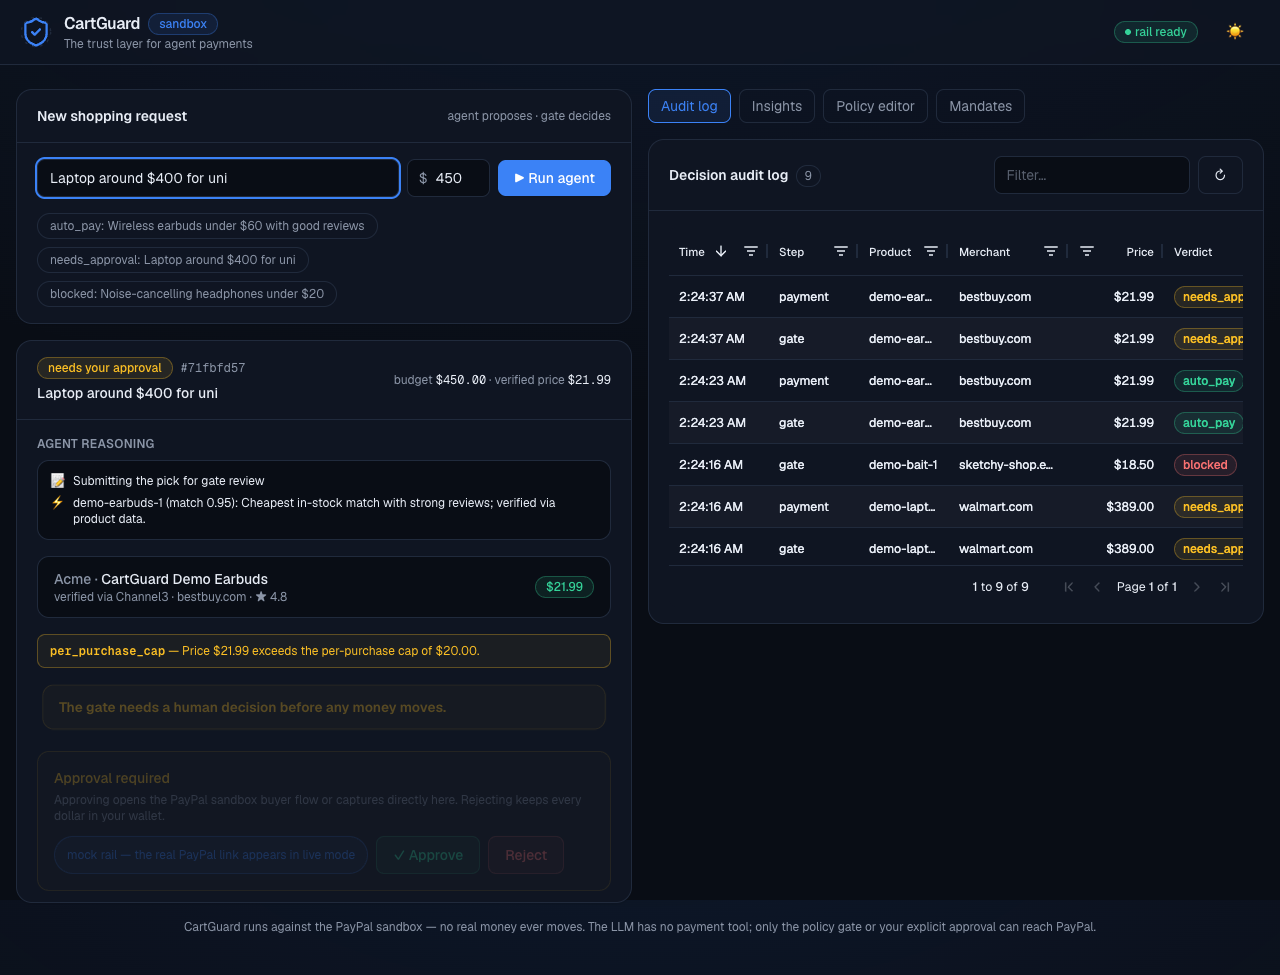
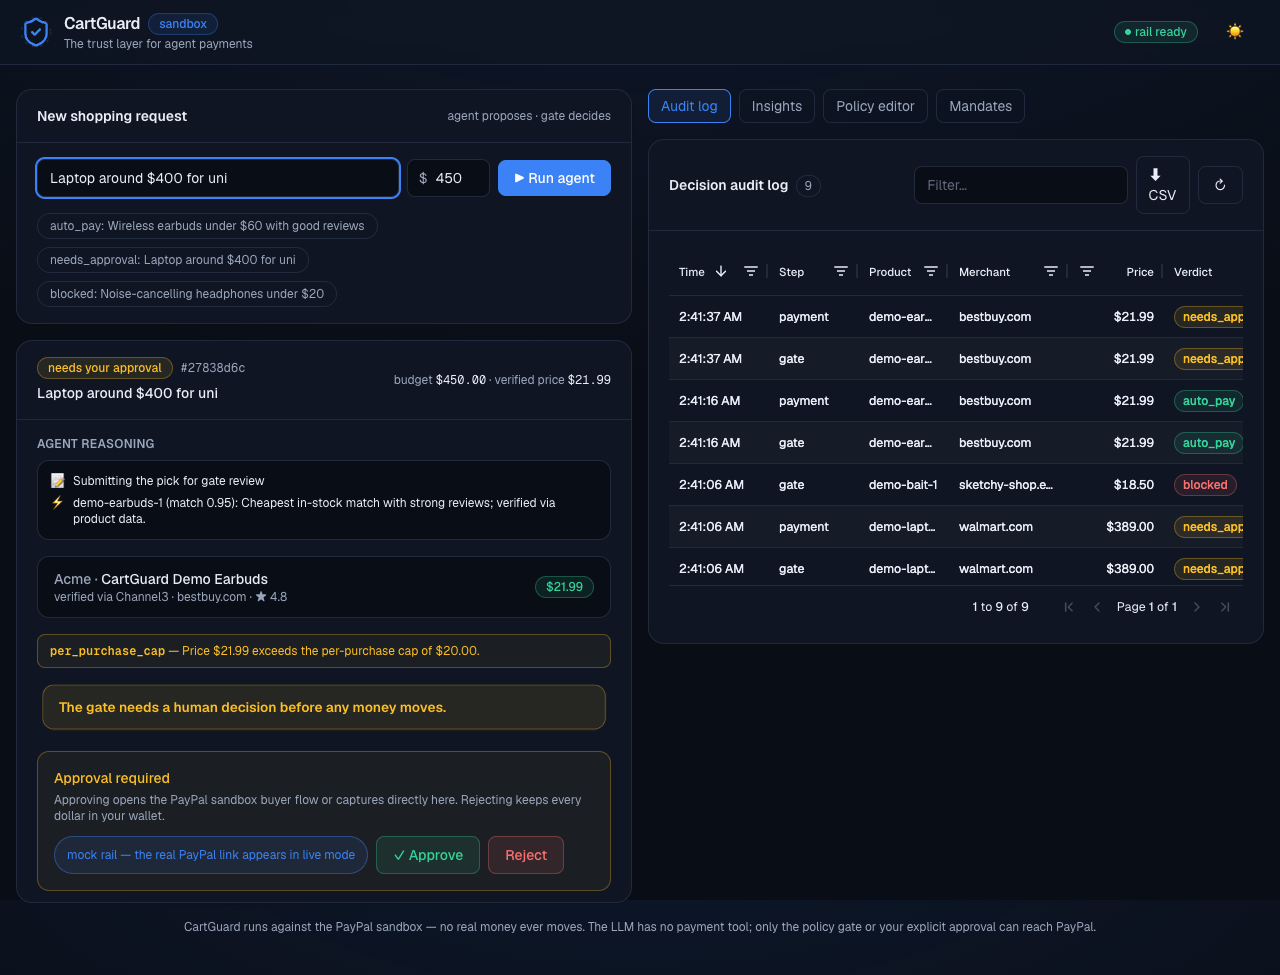
Item N5: a11y + UI polish — skip link, muted contrast, readable chart axes, rationale tooltips, CSV download in the grid, chart aria labels

diff --git a/apps/web/src/components/ChartsPanel.tsx b/apps/web/src/components/ChartsPanel.tsx
@@ -70,6 +70,19 @@ export function ChartsPanel({ refreshKey }: { refreshKey: number }) {
       ...chartTheme,
       data: spendData,
       legend: { enabled: false },
+      axes: [
+        {
+          type: "category" as const,
+          position: "bottom" as const,
+          label: { color: "#a8b3c7" },
+        },
+        {
+          type: "number" as const,
+          position: "left" as const,
+          title: { text: "USD", color: "#a8b3c7" },
+          label: { color: "#a8b3c7" },
+        },
+      ] as unknown as AgCartesianChartOptions["axes"],
       series: [
         {
           type: "line" as const,
@@ -117,7 +130,7 @@ export function ChartsPanel({ refreshKey }: { refreshKey: number }) {
               No captured payments yet — run a request that passes the gate.
             </p>
           ) : (
-            <div className="h-72">
+            <div className="h-72" role="img" aria-label="Line chart of captured spend per day">
               <AgCharts options={spendOptions} />
             </div>
           )}
@@ -133,7 +146,7 @@ export function ChartsPanel({ refreshKey }: { refreshKey: number }) {
               No gate decisions yet — the breakdown appears with your first request.
             </p>
           ) : (
-            <div className="h-72">
+            <div className="h-72" role="img" aria-label="Donut chart of gate verdict counts">
               <AgCharts options={verdictOptions} />
             </div>
           )}

diff --git a/apps/web/src/components/AuditGrid.tsx b/apps/web/src/components/AuditGrid.tsx
@@ -75,7 +75,14 @@ export function AuditGrid({ refreshKey }: { refreshKey: number }) {
         sortIndex: 0,
       },
       { field: "step", headerName: "Step", width: 90 },
-      { field: "productId", headerName: "Product", flex: 1, minWidth: 90, tooltipField: "productId" },
+      {
+        field: "productId",
+        headerName: "Product",
+        flex: 1,
+        minWidth: 90,
+        tooltipField: "llmRationale",
+        headerTooltip: "Rationale is shown as the tooltip when present",
+      },
       { field: "merchant", headerName: "Merchant", width: 120 },
       {
         field: "priceUsd",
@@ -149,6 +156,14 @@ export function AuditGrid({ refreshKey }: { refreshKey: number }) {
             value={quickFilter}
             onChange={(event) => setQuickFilter(event.target.value)}
           />
+          <a
+            href="/audit.csv"
+            download="cartguard-audit.csv"
+            className="inline-flex items-center rounded-lg border border-border bg-card px-3 py-2 text-sm transition-colors hover:bg-fg/5"
+            title="Download the audit table as CSV"
+          >
+            ⬇ CSV
+          </a>
           <Button variant="outline" onClick={() => void load()}>
             ↻
           </Button>

diff --git a/apps/api/src/server.ts b/apps/api/src/server.ts
@@ -15,6 +15,7 @@ import { createLlmCompleter, type ChatCompleter } from "./llm.js";
 import { createMockChannel3, createMockLlm, createMockPaypal } from "./mockRails.js";
 import { seedDemoData } from "./demoSeedData.js";
 import { createPaypalOrdersFromEnv, type PaypalOrders } from "./paypal.js";
+import { auditToCsv } from "./auditCsv.js";
 import { subscribe } from "./events.js";
 import { evaluatePolicy } from "./policy.js";
 import { executeProposal, rememberVaultToken, startRequestProcessing } from "./requests.js";
@@ -478,6 +479,12 @@ export function createApp(deps: ServerDeps): Express {
       unsubscribe();
       res.end();
     });
+  });
+
+  app.get("/audit.csv", (req, res) => {
+    res.setHeader("Content-Type", "text/csv; charset=utf-8");
+    res.setHeader("Content-Disposition", 'attachment; filename="cartguard-audit.csv"');
+    res.send(auditToCsv(deps.db.listAudit(1_000_000)));
   });
 
   app.get("/audit", (req, res) => {

diff --git a/apps/web/src/App.tsx b/apps/web/src/App.tsx
@@ -45,12 +45,18 @@ export function App() {
 
   return (
     <div className="min-h-full">
+      <a
+        href="#main-content"
+        className="sr-only focus:not-sr-only focus:absolute focus:left-2 focus:top-2 focus:z-50 focus:rounded-lg focus:bg-accent focus:px-3 focus:py-2 focus:text-sm focus:text-accent-fg"
+      >
+        Skip to content
+      </a>
       <Header
         health={health}
         theme={theme}
         onToggleTheme={() => setTheme((current) => (current === "dark" ? "light" : "dark"))}
       />
-      <main className="mx-auto w-full max-w-7xl space-y-4 px-4 py-6">
+      <main id="main-content" className="mx-auto w-full max-w-7xl space-y-4 px-4 py-6">
         <div className="grid grid-cols-1 items-start gap-4 lg:grid-cols-2">
           <div className="space-y-4 lg:sticky lg:top-20">
             <NewRequestCard onCreated={(id, token) => setActiveRequest({ id, token })} />

diff --git a/apps/api/test/openapi.test.ts b/apps/api/test/openapi.test.ts
@@ -21,6 +21,7 @@ const APP_ROUTES: Array<{ method: string; path: string }> = [
   { method: "get", path: "/mandates" },
   { method: "post", path: "/mandates/:id/revoke" },
   { method: "get", path: "/audit" },
+  { method: "get", path: "/audit.csv" },
   { method: "get", path: "/policy" },
   { method: "put", path: "/policy" },
   { method: "post", path: "/policy/replay" },

diff --git a/apps/web/src/index.css b/apps/web/src/index.css
@@ -37,7 +37,7 @@
   --bg: #090d15;
   --card: #0f1522;
   --fg: #e8edf6;
-  --muted: #8b95a7;
+  --muted: #9aa6bb;
   --border: #202a3c;
   --accent: #3b82f6;
   --accent-fg: #ffffff;
